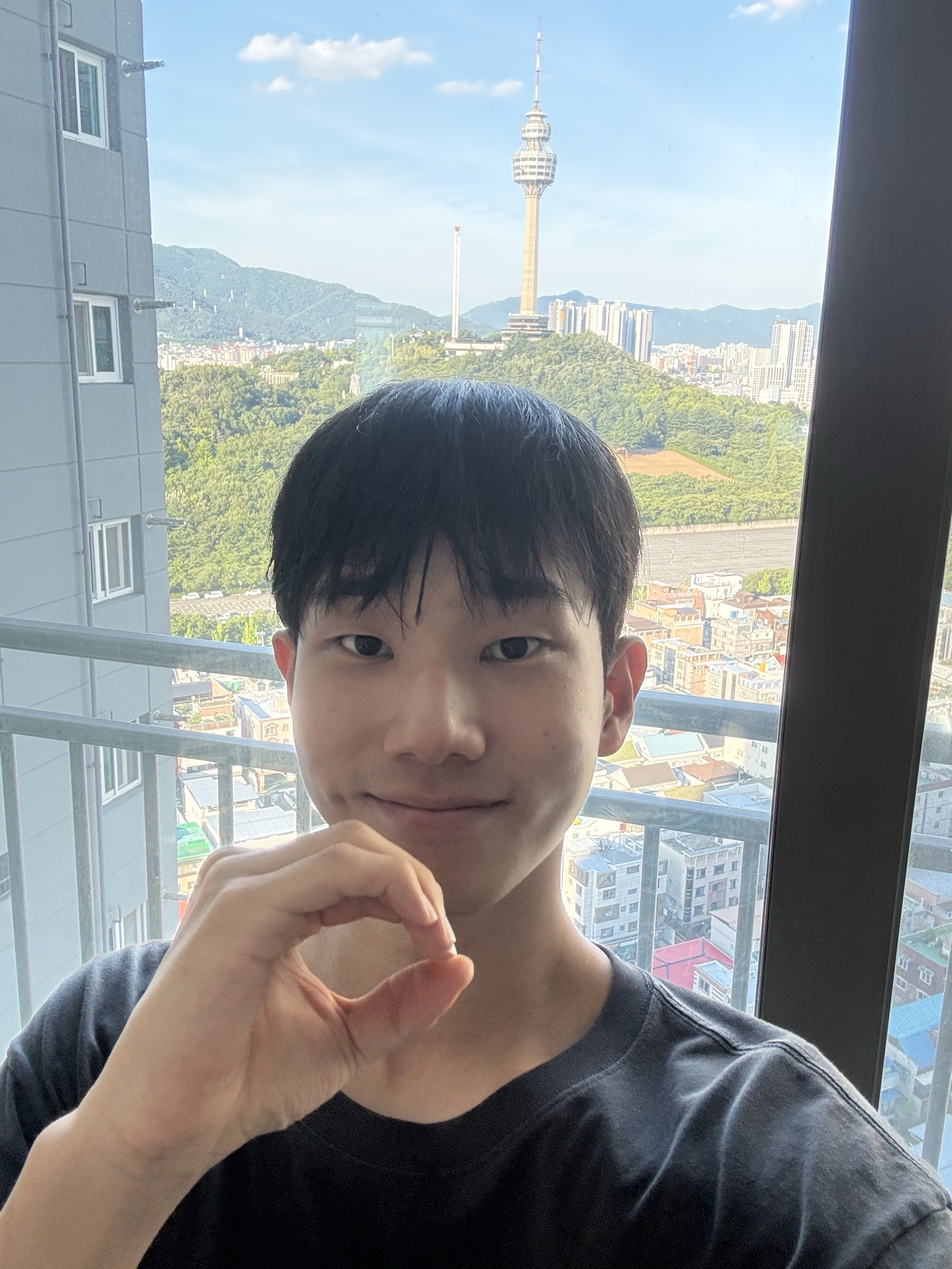
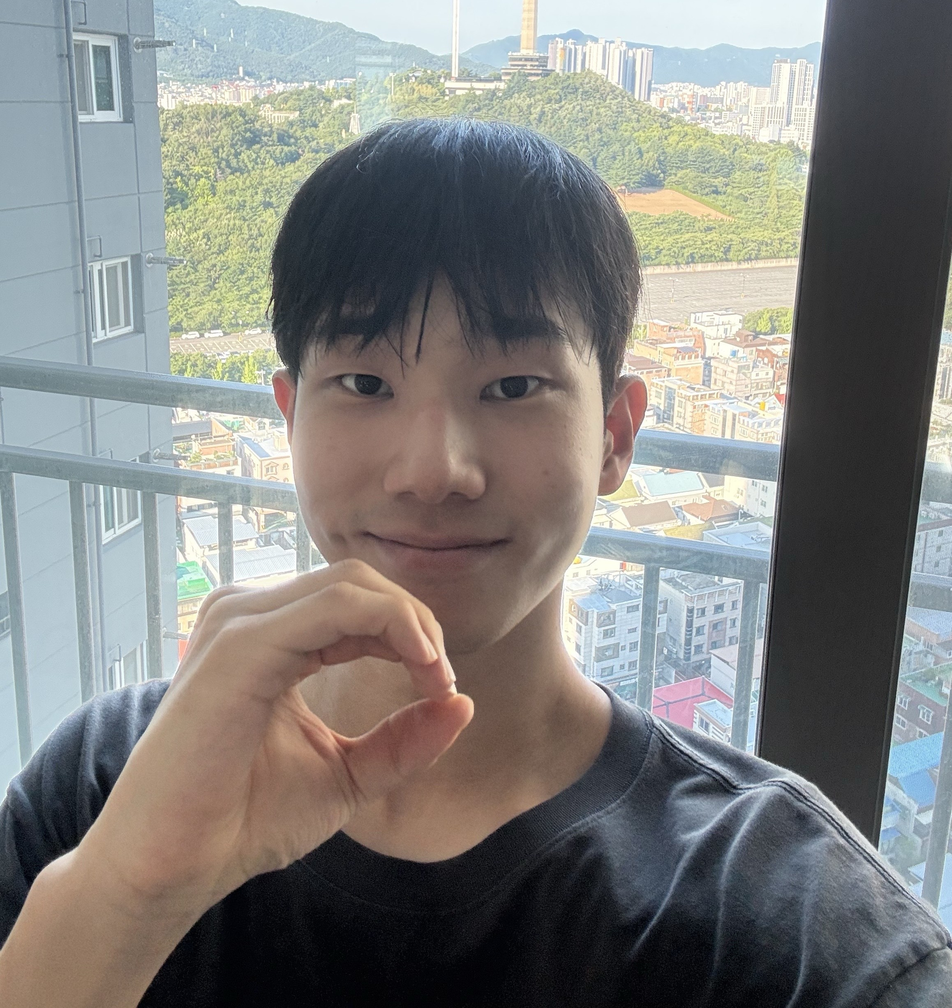
Update stage 3 hint text and images

diff --git a/index.html b/index.html
@@ -1183,7 +1183,7 @@
         <h2 class="sr-only" id="hintTitle">Stage 1 힌트</h2>
         <div class="hint-main-panel" id="hintMainPanel">
           <img id="hintImage" src="./assets/images/stage1_hint.jpg?v=2" alt="Stage 1 힌트 이미지" />
-          <p class="hint-copy">힌트: 영어</p>
+          <p class="hint-copy" id="hintCopy">힌트: 영어</p>
           <div class="hint-actions hint-actions--split">
             <button class="btn" type="button" id="closeHintButton">닫기</button>
             <button class="btn btn--primary" type="button" id="hint2Button" hidden>힌트2</button>
@@ -1191,7 +1191,7 @@
         </div>
         <div class="hint-second-panel" id="hintSecondPanel" hidden>
           <button class="btn hint-back" type="button" id="backHintButton">돌아가기</button>
-          <p class="hint-second-copy" id="hintSecondCopy">마지막 글자는 '요'애요!</p>
+          <p class="hint-second-copy" id="hintSecondCopy">마지막 글자는 '요'에요!</p>
         </div>
       </div>
     </div>
@@ -1220,6 +1220,7 @@
       const hintMainPanel = document.querySelector("#hintMainPanel");
       const hintSecondPanel = document.querySelector("#hintSecondPanel");
       const hintImage = document.querySelector("#hintImage");
+      const hintCopy = document.querySelector("#hintCopy");
       const hintButton = document.querySelector("#hintButton");
       const hint2Button = document.querySelector("#hint2Button");
       const backHintButton = document.querySelector("#backHintButton");
@@ -1241,6 +1242,7 @@
             "./assets/images/stage1_photo4.jpg?v=2",
           ],
           hint: "./assets/images/stage1_hint.jpg?v=2",
+          hintLabel: "힌트: 영어",
           answerImages: [
             "./assets/images/answer_1.jpg?v=1",
             "./assets/images/answer_o.jpg?v=1",
@@ -1258,6 +1260,7 @@
             "./assets/images/stage2_photo4.jpg?v=1",
           ],
           hint: "./assets/images/stage2_hint.jpg?v=1",
+          hintLabel: "힌트: 영어",
           answerImages: [
             "./assets/images/stage2_answer_1.jpg?v=1",
             "./assets/images/stage2_answer_2.jpg?v=1",
@@ -1275,7 +1278,8 @@
             "./assets/images/stage3_photo4.jpg?v=1",
           ],
           hint: "./assets/images/stage3_hint.jpg?v=1",
-          hint2: "마지막 글자는 '요'애요!",
+          hintLabel: "힌트: 한글",
+          hint2: "마지막 글자는 '요'에요!",
           answerImages: [
             "./assets/images/stage3_answer_1.jpg?v=1",
             "./assets/images/stage3_answer_2.jpg?v=1",
@@ -1341,6 +1345,7 @@
         });
         hintImage.src = stage.hint;
         hintImage.alt = `Stage ${stageNumber} 힌트 이미지`;
+        hintCopy.textContent = stage.hintLabel || "힌트";
         hintTitle.textContent = `Stage ${stageNumber} 힌트`;
         hintSecondCopy.textContent = stage.hint2 || "";
         hint2Button.hidden = !stage.hint2;
